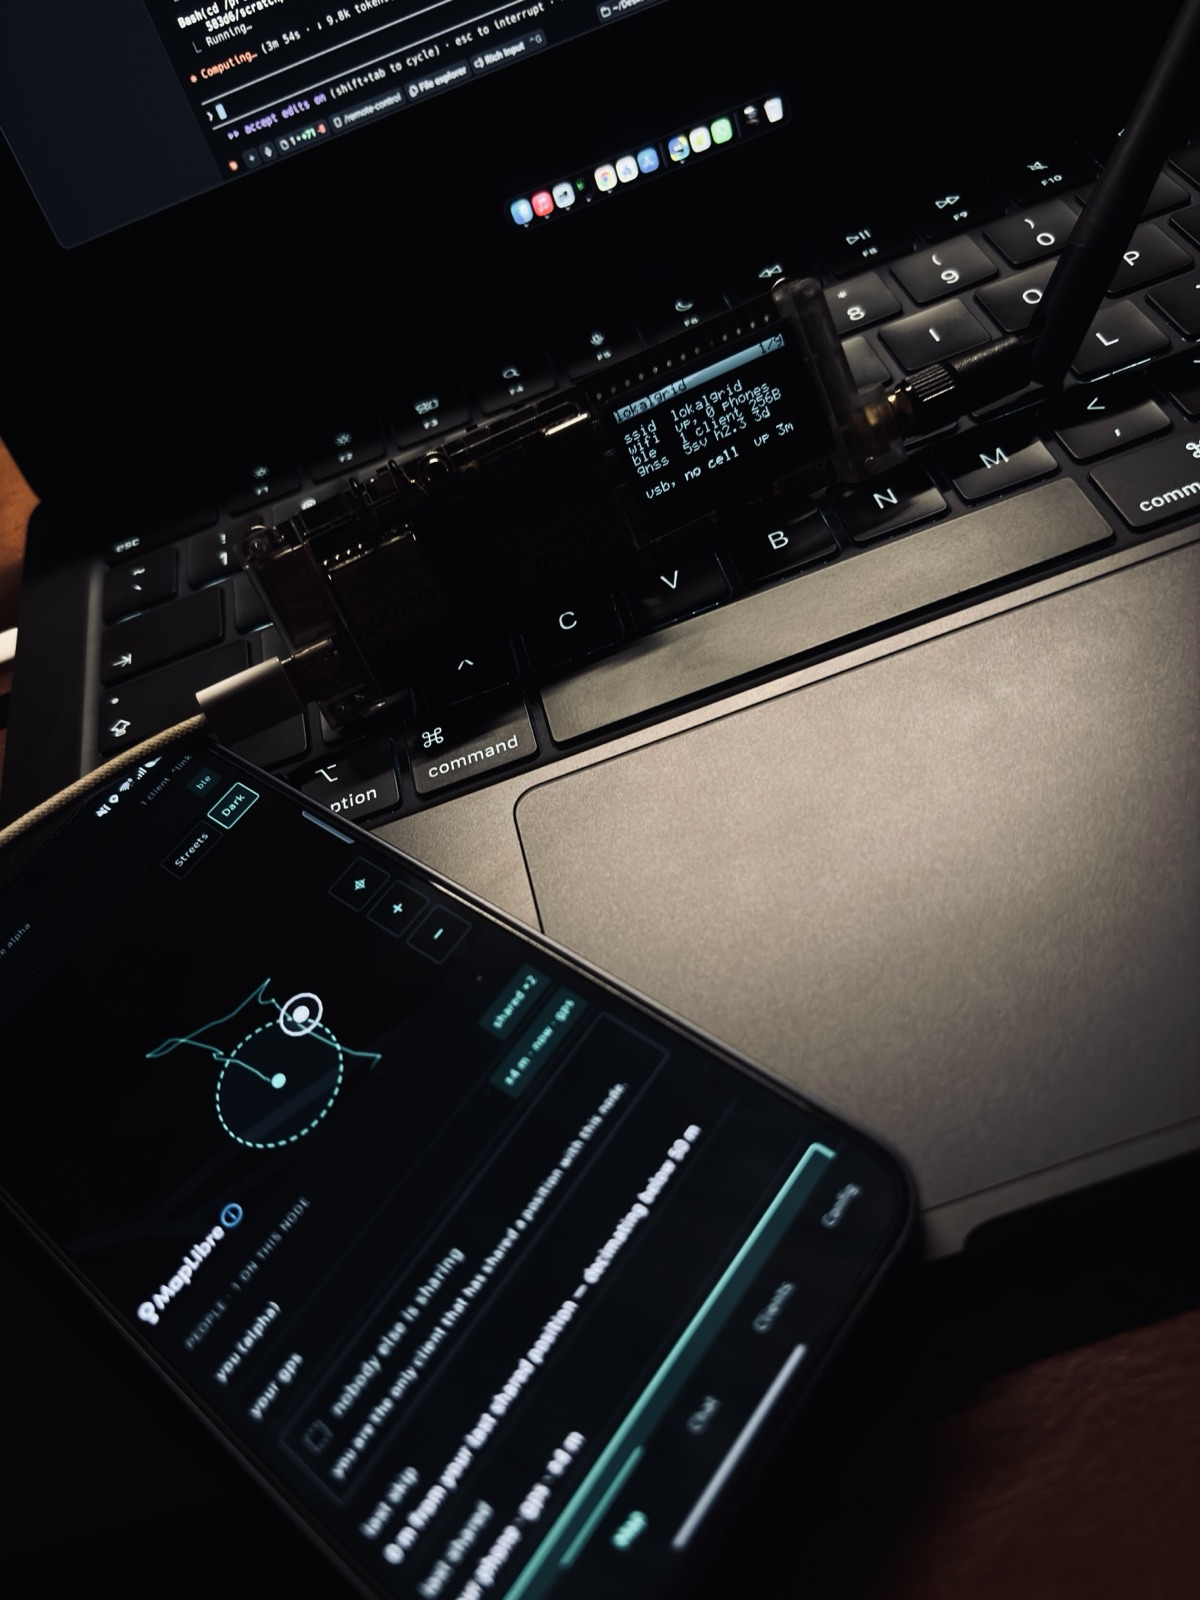
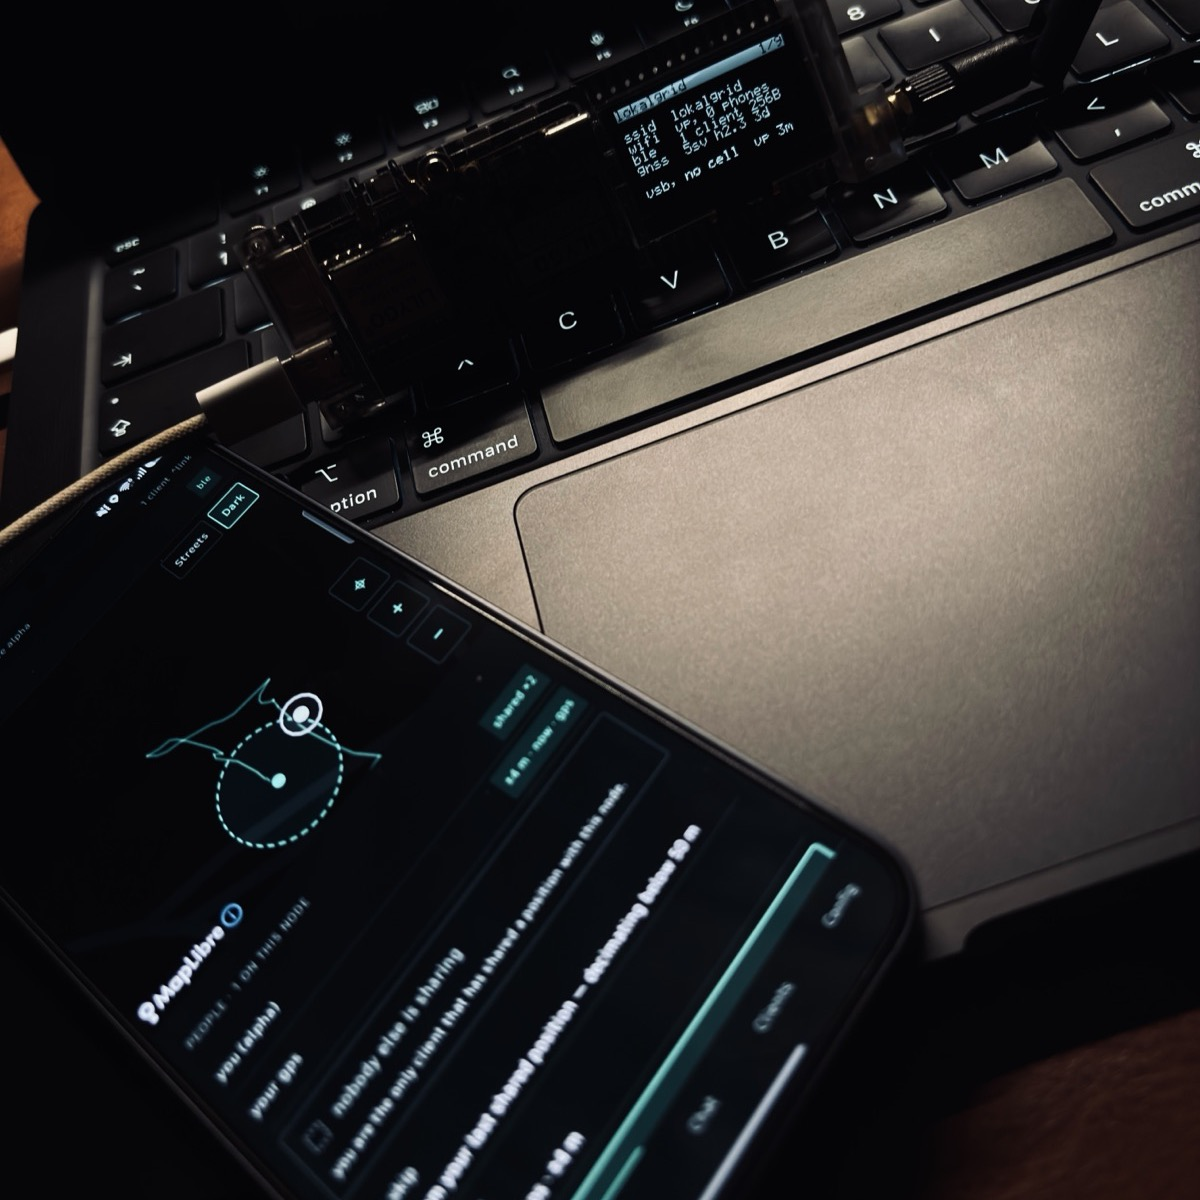
docs: square both bench photos so the pair matches
One was 4:3 landscape and the other 3:4 portrait, so equal widths gave
unequal heights. Both are cropped to 1200x1200 and render at the same
370px box.

The crops also drop what was behind the boards: the out-of-focus
laptop screen on the left of the first, and the Claude Code session
visible at the top of the second. Neither was the subject.

diff --git a/README.md b/README.md
@@ -55,10 +55,9 @@
 OLED, BME280, PCF8563 RTC. ESP-IDF v5.3.1 firmware in `firmware/`.
 
 <p align="center">
-  <img src="docs/hardware.jpg" alt="T-Beam Supreme on the bench, OLED lit, mid-boot" width="472">
-  <img src="docs/bench.jpg" alt="The node running beside the app: OLED showing ssid and client count, phone showing the Map screen" width="265"><br>
-  <sub>Left: mid-boot, <code>starting radios</code> on the OLED, band marking readable on the SX1262 module.<br>
-  Right: up and serving — <code>ssid lokalgrid</code> and <code>usb, no cell</code> on the OLED, the Map screen and its accuracy ring on the phone.</sub>
+  <img src="docs/hardware.jpg" alt="T-Beam Supreme on the bench, OLED lit, mid-boot" width="370">
+  <img src="docs/bench.jpg" alt="The node serving the app: OLED showing ssid and client count, phone showing the Map screen" width="370"><br>
+  <sub>Mid-boot, then serving: <code>starting radios</code> on the OLED, and the Map screen with its accuracy ring on the phone beside it.</sub>
 </p>
 
 **Radio:** never transmit without an antenna — the SX1262 PA is every damage
